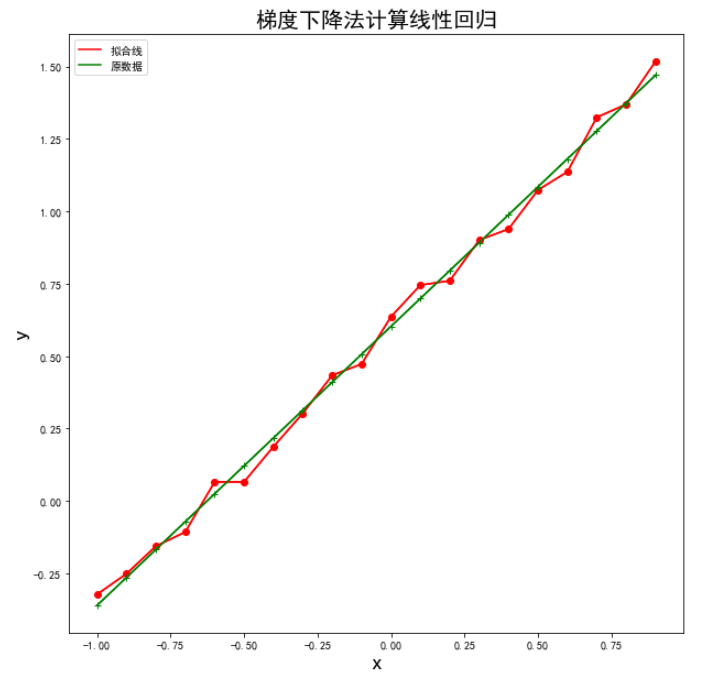
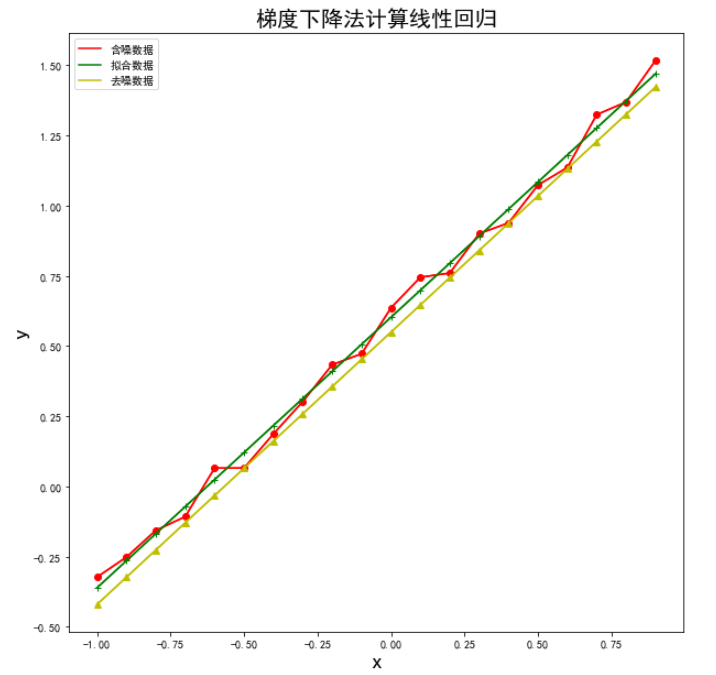
GitBook: [master] 23 pages and 2 assets modified

diff --git a/fu-lu-1-ji-qi-xue-xi-ru-men.md b/fu-lu-1-ji-qi-xue-xi-ru-men.md
@@ -191,7 +191,7 @@ print('a=%.2f,b=%.2f,a_hat=%.2f,b_hat=%.2f' %(a,b,a_hat,b_hat))
 
 > a=0.97,b=0.55,a\_hat=0.96,b\_hat=0.60
 
-
+为了能够有直观的感受，我们可以使用下面的代码来观察一下实际效果。
 
 ```python
 import matplotlib.pyplot as plt
@@ -201,24 +201,81 @@ plt.figure(figsize=(10,10))
 font = {
 'size'   : 20,
 }
-
 y_hat=a_hat*x+b_hat
-l1=plt.plot(x,y,'r-',label='拟合线')
-l2=plt.plot(x,y_hat,'g-',label='原数据')
-plt.plot(x,y,'ro-',x,y_hat,'g+-')
+y_o=a*x+b
+l1=plt.plot(x,y,'r-',label='含噪数据')
+l2=plt.plot(x,y_hat,'g-',label='拟合数据')
+l3=plt.plot(x,y_o,'y-',label='去噪数据')
+plt.plot(x,y,'ro-',x,y_hat,'g+-',x,y_o,'y^-')
 plt.title('梯度下降法计算线性回归',font)
-
 plt.xlabel('x',font)
 plt.ylabel('y',font)
 plt.legend()
 plt.show()
 ```
 
+可以发现，通过梯度下降算法计算得到的直线可以比不含噪声的原函数更好的预测含有噪声的数据。
+
 ![](.gitbook/assets/1.png)
 
-绿色的直线。。。
+神经网络反向传播和上面提到的梯度下降算法本质上是一样的。只是神经网络由于参与的节点太多，手工计算很容易出错，我们必须借助于计算机工程软件才能将其应用到实践中。另外由于神经网络是由多个神经元拼接组成的，计算各个参数的梯度时得从输出层开始向输入层的方向逐级更新，这个顺序与计算系统的输出相反，反向传播也由此得名。
 
-这种方法本质上和神经网络反向传播用到算法是一样的，只是神经网络由于参与的节点太多，手工计算很容易出错。另外在更新神经网络的参数时是从输出节点向输入的节点的逐级更新，反向传播也由此得名。我通过列一张表来对比一下，线性回归和神经网络反向传播的异同点。
+神经网络理论上可以拟合任意函数，我们试着用神经网络来试着计算 $$\hat{a}$$ 和 $$\hat{b}$$ 的值。通过比较就会发现使用神经网络的方法和使用传统的手工计算梯度的方法没有什么差别。由于这个问题比较简单，我们只用含有一个神经元的神经网络，并且不使用激活函数。根据神经元的定义，神经元的输入端突触权重和偏置权重就正好是需要计算的 $$\hat{a}$$ 和 $$\hat{b}$$ 值。
+
+![&#x5355;&#x4E2A;&#x795E;&#x7ECF;&#x5143;&#x7EC4;&#x6210;&#x7684;&#x795E;&#x7ECF;&#x7F51;&#x7EDC;](.gitbook/assets/sin%20%281%29.svg)
+
+```python
+import numpy as np    #1
+np.random.seed(4)     #1
+a=round(np.random.random(),2)    #1
+b=round(np.random.random(),2)    #1 
+x=np.arange(-1,1,0.1)    #1
+y=a*x+b+np.random.random(size=(20,))/10    #1
+
+import tensorflow as tf    #2
+from tensorflow import keras    #2
+tf.random.set_seed(0)    #3
+def model():    #4
+    inp=keras.layers.Input(shape=1)
+    outp=keras.layers.Dense(1,name='Dense_1')(inp)
+    return keras.models.Model(inputs=inp, outputs=outp)
+model=model()    #4
+model.compile(optimizer=keras.optimizers.SGD(learning_rate=1e-1),    #5
+              loss=keras.losses.MeanSquaredError())    #6
+model.fit(x, y, epochs=200)    #7
+
+a_hat,b_hat=model.get_layer('Dense_1').get_weights()    #8
+print("a_hat=%.2f,b_hat=%.2f" %(a_hat[0][0],b_hat[0]))    #8
+```
+
+1. 生成用来回归的带噪数据；
+2. 调用TensorFlow及其子库Keras；
+3. 固定住TensorFlow的随机种子，使得结果可重现；
+4. 定义单个神经元的神经网络结构；
+5. 设置网络利用梯度下降法对网络的参数进行求导，并将学习率设置为0.1；
+6. 将均方差函数作为估计与样本标签之间误差评估的损失函数；
+7. 将样本和样本标签扔进软件的fit方法中，让软件按照反向传播的算法自动迭代并更新参数200次；
+8. 神经元的输入端突触和偏置的权重就是需要估计的参数 $$\hat{a}$$ 和 $$\hat{b} $$ 。
+
+> Epoch 73/200 20/20 \[==============================\] - 0s 150us/sample - loss: 0.0013 
+>
+> Epoch 74/200 20/20 \[==============================\] - 0s 100us/sample - loss: 0.0013 
+>
+> Epoch 75/200 20/20 \[==============================\] - 0s 100us/sample - loss: 0.0012 
+>
+> Epoch 76/200 20/20 \[==============================\] - 0s 100us/sample - loss: 0.0012 
+>
+> Epoch 77/200 20/20 \[==============================\] - 0s 150us/sample - loss: 0.0012 
+>
+> Epoch 78/200 20/20 \[==============================\] - 0s 300us/sample - loss: 0.0012
+
+> a\_hat=0.96,b\_hat=0.60
+
+可见利用神经网络得到的估计值和利用传统算法得到的估计值是一模一样的。由于我们手工定义的均方误差比软件中定义的均方误差多乘了二分之一，所以这里展示的损失函数值是0.0012，将其除以2就是我们之前的0.0006。之所以手工定义时多乘了二分之一，是为了在求导数时省去系数的计算，这种略带技巧性的处理并不会影响最终结果。
+
+|  |  |  |
+| :--- | :--- | :--- |
+|  |  |  |
 
 ### 多层感知器的应用示例
 
@@ -236,7 +293,7 @@ import tensorflow as tf
 from tensorflow import keras
 
 np.random.seed(0)    #1
-tf.random.set_seed(0)    #
+tf.random.set_seed(0)    #1
 
 samples=5000    #2
 train_x=np.random.rand(samples,2)    #3
@@ -249,26 +306,7 @@ test_x=np.random.rand(test_samples,2)    #6
 test_bases=np.sin(test_x[:,0])    #6
 test_y=test_x[:,1]>test_bases    #6
 test_y=np.ones((test_samples,))*test_y    #6
-
-def model():
-    inp=keras.layers.Input(shape=2)
-    x=keras.layers.Dense(64,activation='relu')(inp)
-    x=keras.layers.Dense(128,activation='relu')(x)
-    x=keras.layers.Dense(8,activation='relu')(x)
-    outp=keras.layers.Dense(1,activation='sigmoid')(x)
-    return keras.models.Model(inputs=inp, outputs=outp)
-model=model()
-model.compile(optimizer=keras.optimizers.SGD(learning_rate=1e-1),
-              loss=keras.losses.BinaryCrossentropy(from_logits=True),
-              metrics = ['accuracy'])
-model.fit(train_x, train_y, epochs=500, batch_size=128)
-
-loss, acc = model.evaluate(test_x,test_y)
-print("loss: %.2f" % loss)
-print("acc: %.2f" % acc)
 ```
-
-
 
 1. 为了方便读者重现，固定住Numpy和Keras的随机数生成结果；
 2. samples表示训练集中包含的数据量大小；
